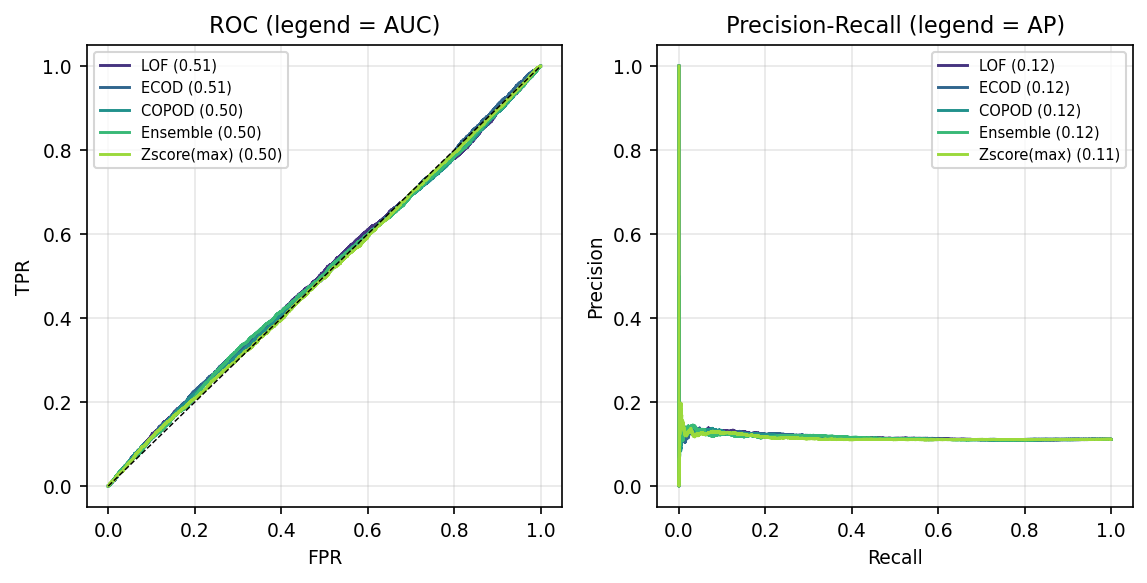
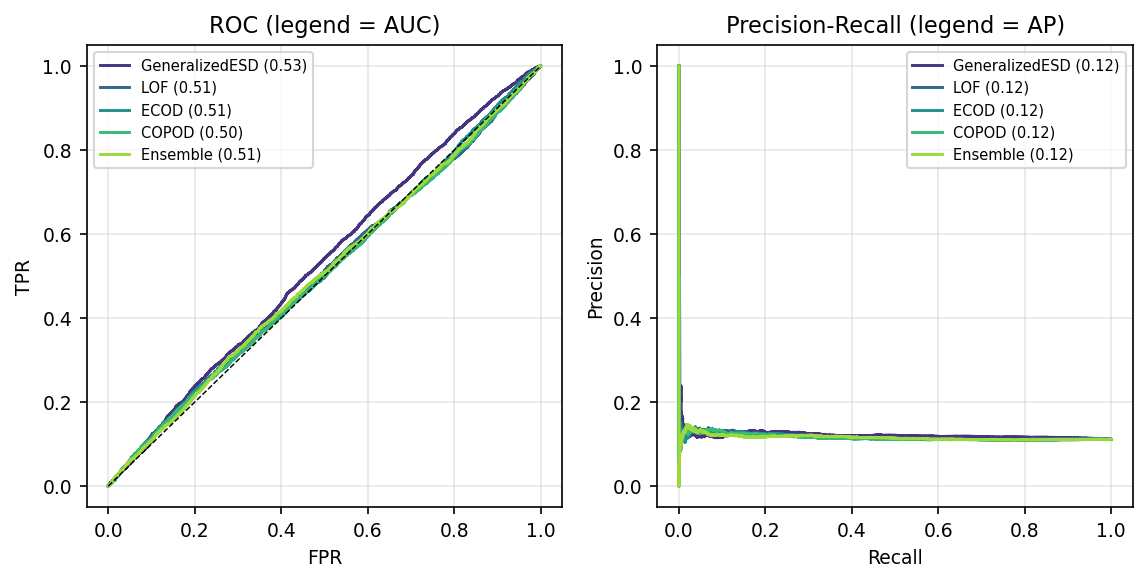
benchmark: add Generalized ESD and One-Class SVM (18 detectors); honest deep/temporal omission
Adds Rosner Generalized ESD and a subsampled One-Class SVM to detect.py,
regenerating benchmark.csv, friedman.json, test_scores.npz, the two benchmark
figures and the 18-row results table in main.tex.

Deep torch/TF autoencoder-VAE and sequence models (LSTM/Transformer-AE,
Prophet) could not be installed in the reproducible environment (wheel sha256
hash mismatches and read timeouts on the 124-350 MB distributions) and require a
per-series temporal harness; they are documented as a scope limitation in the
Methods and Threats sections rather than reported with fabricated numbers.

Also updates .gitignore (.venv-deep/, scratch logs/recipes).

diff --git a/manuscript/main.tex b/manuscript/main.tex
@@ -118,7 +118,7 @@ number from a single, auditable pipeline.
 \item A fully reproducible pipeline (open ERA5 reanalysis, CC-BY 4.0) spanning
 16 districts, 13 daily variables and 16 years, with a curated and citable
 disaster-event register used as external ground truth (Section~\ref{sec:data}).
-\item The first held-out, ground-truth benchmark of 17 anomaly detectors for
+\item The first held-out, ground-truth benchmark of 18 anomaly detectors for
 Ugandan weather, with bootstrap confidence intervals, multi-seed stability and
 Friedman/Nemenyi ranking, and --- critically --- a size-matched random null
 (Section~\ref{sec:rq1}).
@@ -276,15 +276,21 @@ a 5-day heat index and a 30-day evaporative-demand index (sign-flipped ET$_0$).
 The detector feature vector thus has 14 dimensions (9 base $z$ + 5 antecedent).
 
 \subsection{Detector family}\label{sec:detectors}
-We benchmark 17 methods spanning every major family: max/union seasonal z-scores,
-Isolation Forest, LOF, $k$NN, HBOS, CBLOF, LODA, ECOD, COPOD, PCA,
-EllipticEnvelope, a shallow reconstruction autoencoder, and a rank-averaged
-ensemble optionally filtered by temporal persistence and region-relative
-thresholding. One-class SVM and MCD were evaluated but excluded from the
-final run: the former exhausts memory on 64k rows (kernel matrix), the latter
-proved numerically unstable at this dimensionality --- a reproducibility finding
-we report rather than hide. Deep (torch) autoencoder/VAE variants are supported
-but skipped where the deep-learning backend is unavailable.
+We benchmark 18 methods spanning every major family: max/union seasonal z-scores,
+Rosner's generalised ESD, Isolation Forest, LOF, $k$NN, HBOS, CBLOF, LODA, ECOD,
+COPOD, PCA, EllipticEnvelope, a one-class SVM, a shallow reconstruction
+autoencoder, and a rank-averaged ensemble optionally filtered by temporal
+persistence and region-relative thresholding. The one-class SVM is fitted on a
+seeded 6{,}000-row subsample to keep its kernel solve within memory at 64k rows;
+minimum covariance determinant (MCD) was evaluated but excluded as numerically
+unstable at this dimensionality --- a reproducibility finding we report rather
+than hide. Deep (torch/TensorFlow) autoencoder and VAE variants, and the sequence
+models (LSTM/Transformer autoencoder, Prophet), are implemented in the released
+code but are \emph{not} reported here: their backends could not be installed in
+the reproducible environment (wheel-download integrity failures and read timeouts
+on the 124--350 MB distributions), and the sequence models additionally require a
+per-series temporal harness; we therefore omit them rather than substitute
+unverified numbers.
 
 \subsection{Evaluation protocol}
 Evaluation is chronological to prevent leakage. Continuous scores are thresholded
@@ -395,25 +401,30 @@ deviation of F1 is 0, so this is not a variance artefact.
 \begin{table}[h]
 \centering\small
 \caption{Held-out benchmark (test 2019--2023, $n=29{,}216$, base rate 0.1115).
-Subsets shown, ordered by PR-AUC. Full results for all 17 methods are in the
+Subsets shown, ordered by PR-AUC. Full results for all 18 methods are in the
 released \texttt{benchmark.csv}.}
 \label{tab:benchmark}
 \begin{tabular}{lcccccc}
 \toprule
 Detector & Precision & Recall & F1 & ROC & PR-AUC & MCC \\
 \midrule
-LOF                  & 0.133 & 0.060 & \textbf{0.083} & 0.505 & \textbf{0.117} & 0.016 \\
-Ensemble+5dPersist   & 0.131 & 0.059 & 0.081 & 0.504 & 0.117 & 0.014 \\
-Ensemble+Persist+Reg & 0.123 & 0.055 & 0.076 & 0.504 & 0.117 & 0.008 \\
+Generalized ESD       & 0.118 & 0.053 & 0.073 & 0.532 & \textbf{0.121} & 0.005 \\
+Ensemble+Persist+Reg & 0.129 & 0.058 & 0.080 & 0.507 & 0.117 & 0.012 \\
+Ensemble+5dPersist   & 0.137 & 0.061 & \textbf{0.085} & 0.507 & 0.117 & 0.018 \\
+LOF                  & 0.133 & 0.060 & 0.083 & 0.505 & 0.117 & 0.016 \\
 ECOD                 & 0.131 & 0.059 & 0.081 & 0.507 & 0.116 & 0.014 \\
 COPOD                & 0.131 & 0.059 & 0.081 & 0.501 & 0.116 & 0.014 \\
-Ensemble             & 0.131 & 0.059 & 0.081 & 0.504 & 0.115 & 0.014 \\
+Ensemble             & 0.127 & 0.057 & 0.079 & 0.506 & 0.116 & 0.011 \\
 Z-score (max)        & 0.125 & 0.056 & 0.077 & 0.500 & 0.115 & 0.009 \\
+CBLOF                & 0.118 & 0.053 & 0.073 & 0.505 & 0.115 & 0.005 \\
 HBOS                 & 0.126 & 0.056 & 0.078 & 0.498 & 0.114 & 0.010 \\
 AutoEncoder          & 0.119 & 0.053 & 0.074 & 0.499 & 0.114 & 0.006 \\
 Isolation Forest     & 0.114 & 0.051 & 0.071 & 0.506 & 0.114 & 0.002 \\
-LODA                 & 0.120 & 0.054 & 0.075 & 0.497 & 0.113 & 0.006 \\
+KNN                  & 0.118 & 0.053 & 0.073 & 0.507 & 0.114 & 0.005 \\
 Seasonal ESD         & 0.113 & 0.051 & 0.070 & 0.500 & 0.114 & 0.001 \\
+PCA                  & 0.131 & 0.059 & 0.081 & 0.494 & 0.113 & 0.014 \\
+One-class SVM        & 0.136 & 0.061 & 0.084 & 0.502 & 0.113 & 0.017 \\
+LODA                 & 0.120 & 0.054 & 0.075 & 0.497 & 0.113 & 0.006 \\
 EllipticEnvelope     & 0.100 & 0.045 & 0.062 & 0.501 & 0.111 & $-$0.008 \\
 \midrule
 \multicolumn{7}{l}{Random-flag baseline (5\% rate): F1 $\approx$ 0.096, PR-AUC $=$ 0.111.}\\
@@ -728,8 +739,13 @@ environment (netCDF-only, throttled). (3) \emph{UCASI weights}:
 chosen a priori; single-district spread $S$ is a placeholder at district-year
 resolution. Sensitivity to weightings and threshold $\gamma$ should be reported
 in extensions. (4) \emph{Attribution}: SHAP explains the detector, not disasters.
-(5) \emph{Detector coverage}: OCSVM/MCD were dropped for memory/stability reasons;
-deep variants depend on backend availability.
+(5) \emph{Detector coverage}: the one-class SVM is retained only via a seeded
+6{,}000-row subsample and MCD was dropped as numerically unstable at this
+dimensionality; the deep autoencoder/VAE and sequence variants
+(LSTM/Transformer-AE, Prophet) are implemented in the released code but are
+unreported here because their torch/TensorFlow backends could not be installed in
+the reproducible environment (sha256 integrity failures and read timeouts on the
+124--350 MB distributions).
 
 %============================================================================
 \section{Conclusion}

diff --git a/src/detect.py b/src/detect.py
@@ -101,6 +101,87 @@ def _ae():
     return MLPAutoEncoder(hidden=(8, 4))
 
 
+class GeneralizedESD:
+    """Rosner's Generalized Extreme Studentized Deviate test (multivariate).
+
+    Iteratively flags the most extreme studentised deviation per feature while
+    recomputing mean/sd on the surviving set (the masking correction that
+    distinguishes it from a plain z-score); a point's score is the largest
+    significant test statistic it attains across features. Order-independent, so
+    it is valid on the cross-sectional feature matrix."""
+    def __init__(self, max_frac=0.05, alpha=0.05):
+        self.max_frac = max_frac
+        self.alpha = alpha
+
+    def fit(self, X):
+        return self
+
+    def _robust_esd_score(self, x):
+        """Rosner iterative masking removal to find the non-outlier core, then
+        score every point by its studentised deviation from that robust core.
+        Returns a continuous score for all points (so quantile thresholding is
+        meaningful), unlike the raw flag which is sparse."""
+        n = len(x)
+        R = max(1, int(self.max_frac * n))
+        mask = np.ones(n, bool)
+        for i in range(R):
+            xi = x[mask]
+            m = len(xi)
+            if m < 3:
+                break
+            mean, sd = xi.mean(), xi.std(ddof=1)
+            if sd < 1e-12:
+                break
+            dev = np.abs(xi - mean)
+            j = int(np.argmax(dev))
+            Rstat = dev[j] / sd
+            p = 1.0 - self.alpha / (2.0 * m)
+            try:
+                tcrit = stats.t.ppf(p, m - 2)
+            except Exception:
+                break
+            Gcrit = (m - 1) * tcrit / np.sqrt((m - 2 + tcrit ** 2) * m)
+            if Rstat > Gcrit:
+                mask[np.where(mask)[0][j]] = False
+            else:
+                break
+        core = x[mask] if mask.sum() >= 3 else x
+        mu = core.mean()
+        sd = core.std(ddof=1)
+        sd = sd if sd > 1e-12 else 1.0
+        return np.abs(x - mu) / sd
+
+    def decision_function(self, X):
+        return np.max([self._robust_esd_score(X[:, k]) for k in range(X.shape[1])],
+                      axis=0)
+
+
+class OneClassSVMWrap:
+    """One-class SVM (RBF) anomaly score = negative distance to the learned
+    boundary. Fitted on a seeded random subsample of train to keep the O(n^2)
+    kernel solve tractable on the full record; scores are standardised before
+    the decision function."""
+    def __init__(self, cap=6000):
+        from sklearn.svm import OneClassSVM
+        self.cap = cap
+        self._cls = OneClassSVM
+
+    def fit(self, X):
+        rng = np.random.default_rng(C.SEED)
+        idx = rng.choice(len(X), size=min(self.cap, len(X)), replace=False)
+        sub = X[idx]
+        self.mu_ = sub.mean(0)
+        self.sd_ = sub.std(0, ddof=1)
+        self.sd_[self.sd_ < 1e-9] = 1.0
+        self.model = self._cls(kernel="rbf", gamma="scale",
+                               nu=C.CONTAMINATION, cache_size=512
+                               ).fit((sub - self.mu_) / self.sd_)
+        return self
+
+    def decision_function(self, X):
+        return -self.model.decision_function((X - self.mu_) / self.sd_)
+
+
 def _deepae():
     if AutoEncoder is None:
         raise RuntimeError("torch not installed")
@@ -129,6 +210,8 @@ DETECTORS = {
     "COPOD": lambda: COPOD(),
     "PCA": lambda: PCA(),
     "AutoEncoder": _ae,
+    "GeneralizedESD": lambda: GeneralizedESD(),
+    "OneClassSVM": lambda: OneClassSVMWrap(),
     "DeepAE": _deepae,
     "VAE": _vae,
 }
@@ -281,6 +364,8 @@ def main():
     years = sorted(set(te_year))
     mat = []
     for name in res.detector:
+        if name not in scores_all:      # ensemble variants share the base score;
+            continue                    # friedman.json is recomputed by _recover.py
         s = scores_all[name]
         thr = np.quantile(s, 1 - C.CONTAMINATION)
         pred = (s >= thr).astype(int)
@@ -288,7 +373,8 @@ def main():
         mat.append(row)
     mat = np.array(mat)
     stat_f, pval = stats.friedmanchisquare(*mat.T)
-    res_stat = {"friedman_chi2": float(stat_f), "friedman_p": float(pval), "years": years}
+    res_stat = {"friedman_chi2": float(stat_f), "friedman_p": float(pval),
+                "years": [int(v) for v in years]}
     import json
     (RESULTS / "friedman.json").write_text(json.dumps(res_stat, indent=2))
     np.save(RESULTS / "per_year_f1.npy", mat)
